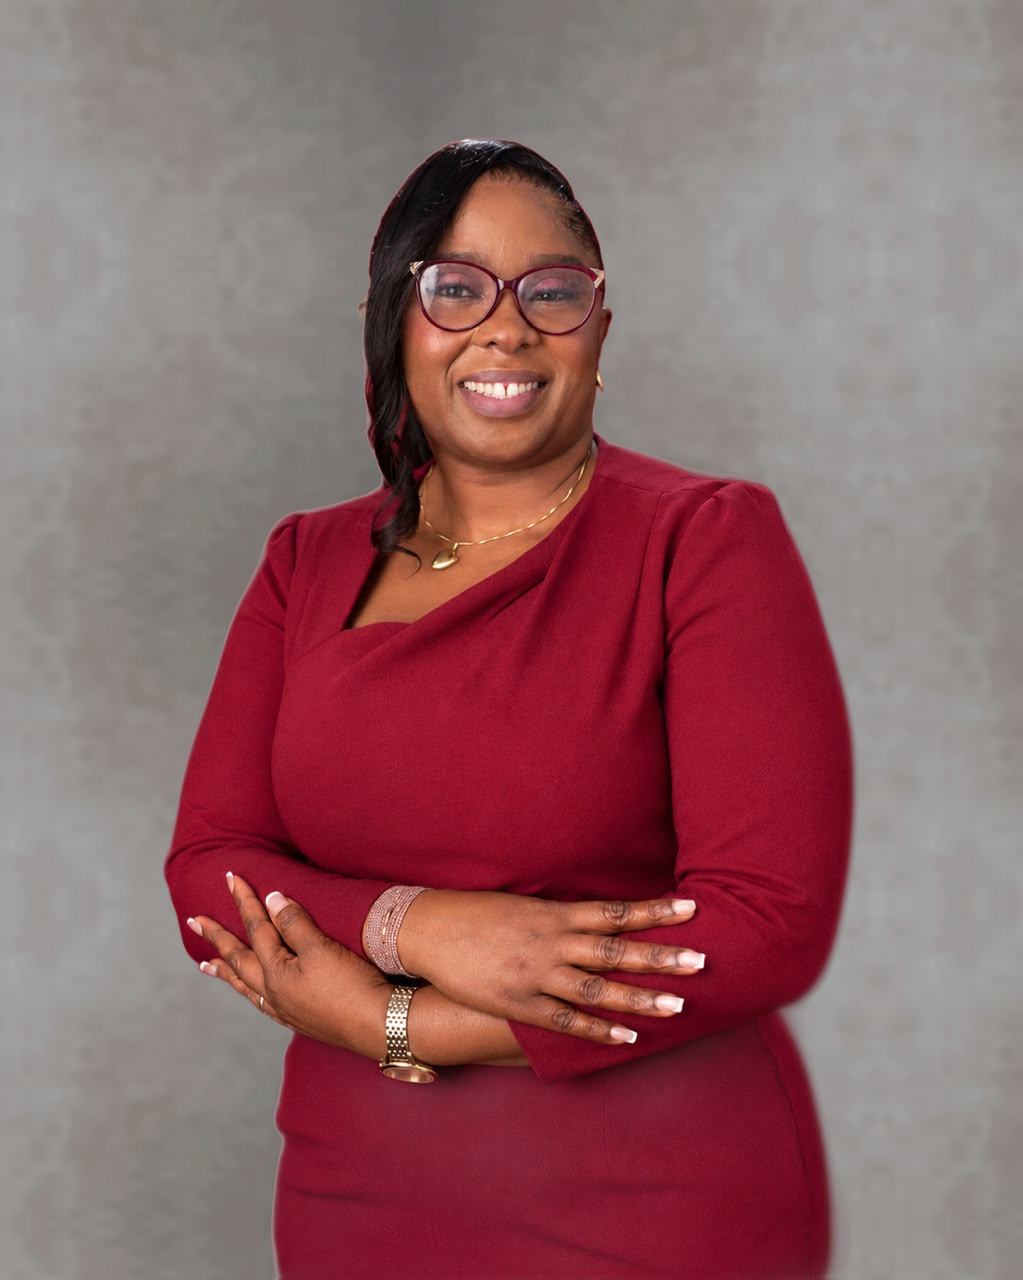
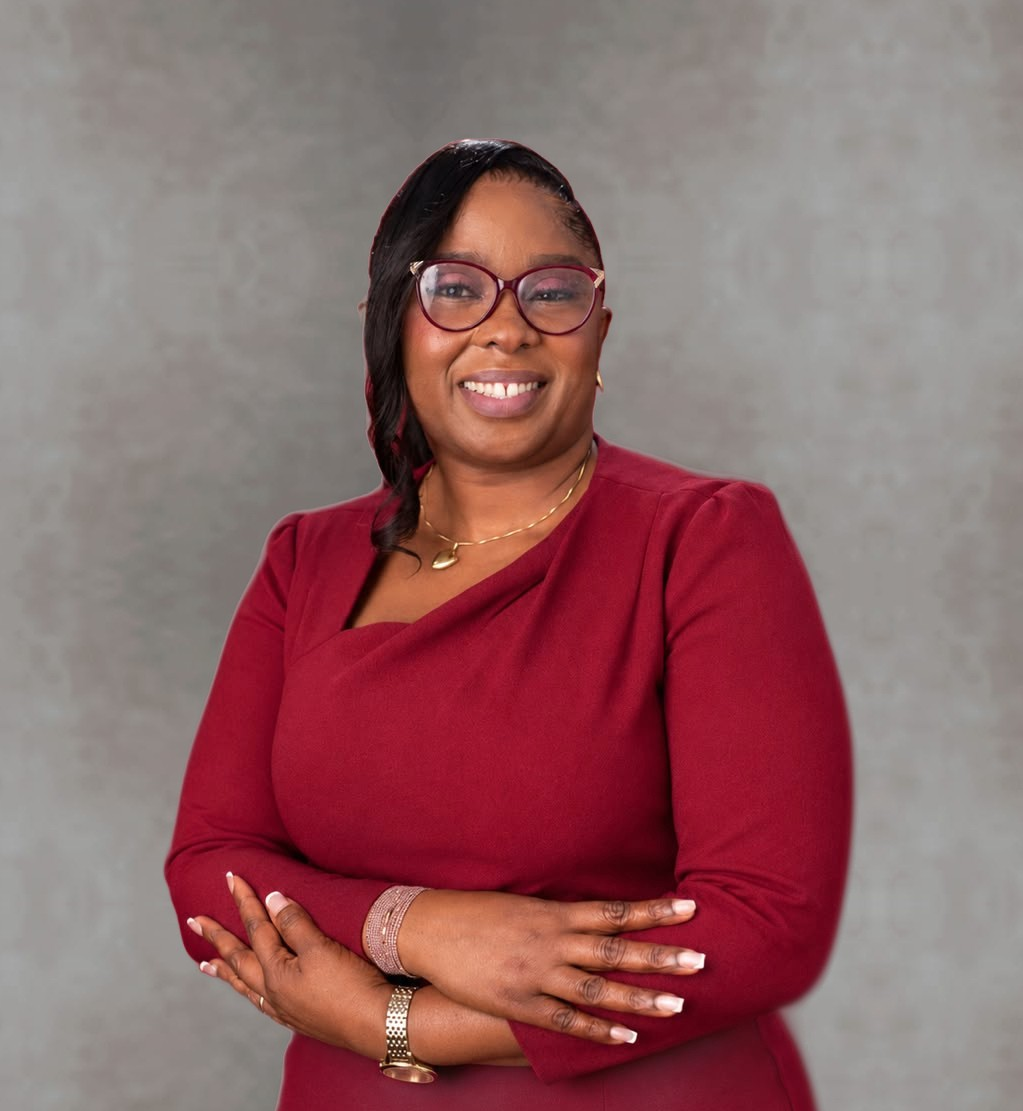
Update About page team layout

Changed region(s): [[0.1515, 0.0918, 0.8485, 1.0], [0.0909, 0.8263, 0.1212, 0.8569]]

diff --git a/about.html b/about.html
@@ -30,7 +30,7 @@
     <link rel="preconnect" href="https://fonts.googleapis.com" />
     <link rel="preconnect" href="https://fonts.gstatic.com" crossorigin />
     <link href="https://fonts.googleapis.com/css2?family=Archivo:wght@400;500;600;700&family=Inter+Tight:wght@400;500;600;700&display=swap" rel="stylesheet" />
-    <link rel="stylesheet" href="styles.css?v=project-gallery-footer-20261026" />
+    <link rel="stylesheet" href="styles.css?v=project-team-layout-20261027" />
     <script src="script.js?v=palm-harbour-images-20261027" defer></script>
   </head>
   <body>
@@ -237,7 +237,7 @@
             <div class="people-group-heading"><span>02</span><h3 id="delivery-team-title">Project &amp; Delivery Team</h3></div>
             <p class="people-group-intro">The specialists driving design, construction and client delivery across Dav-Ric Homes.</p>
             <div class="people-grid people-grid--delivery">
-              <article class="people-card" data-reveal><div class="people-card-media"><img class="people-card-photo" src="assets/olajubutu-gbenga.jpg" alt="Portrait of Arc. Olajubutu Gbenga" loading="lazy" decoding="async" /></div><div class="people-card-body"><h4>Arc. Olajubutu Gbenga</h4><p class="people-card-role">Project Executive</p></div></article>
+              <article class="people-card" data-reveal><div class="people-card-media"><img class="people-card-photo" src="assets/olajubutu-gbenga.jpg" alt="Portrait of Arc. Olajubutu Gbenga" loading="lazy" decoding="async" /></div><div class="people-card-body"><h4>Arc. Olajubutu Gbenga</h4><p class="people-card-role">Project Director</p></div></article>
               <article class="people-card" data-reveal><div class="people-card-media"><img class="people-card-photo" src="assets/esther-olasemeji.jpg" alt="Portrait of QS Esther Olasemeji" loading="lazy" decoding="async" /></div><div class="people-card-body"><h4>QS Esther Oladimeji</h4><p class="people-card-role">Head, Quantity Surveying &amp; Cost Management</p></div></article>
               <article class="people-card" data-reveal><div class="people-card-media" aria-hidden="true"><span class="people-card-initials">KO</span></div><div class="people-card-body"><h4>Engr. Kolade Onanlopo</h4><p class="people-card-role">Project Manager</p></div></article>
               <article class="people-card" data-reveal><div class="people-card-media"><img class="people-card-photo" src="assets/akinwale-desmond.jpg" alt="Portrait of Akinwale Desmond" loading="lazy" decoding="async" /></div><div class="people-card-body"><h4>Akinwale Desmond</h4><p class="people-card-role">Property Consultant<br />(Special Advisor on Special Project)</p></div></article>

diff --git a/styles.css b/styles.css
@@ -920,7 +920,8 @@ h2 span {
 
 .people-grid { display: grid; gap: 12px; }
 .people-grid--leadership { grid-template-columns: repeat(4, minmax(0, 1fr)); }
-.people-grid--delivery { grid-template-columns: repeat(6, minmax(0, 1fr)); }
+.people-grid--delivery { display: flex; flex-wrap: wrap; justify-content: center; }
+.people-grid--delivery > .people-card { flex: 0 1 calc((100% - 24px) / 3); }
 .people-card { display: flex; min-width: 0; flex-direction: column; overflow: hidden; border: 1px solid var(--line-color); background: var(--paper); }
 .people-card-media {
   position: relative;
@@ -2251,8 +2252,6 @@ html:not(.js) [data-reveal] {
   .people-heading h2 { font-size: clamp(47.41px, 12.13vw, 69.46px); }
   .people-intro { margin: 0; }
   .people-grid--leadership { grid-template-columns: repeat(2, minmax(0, 1fr)); }
-  .people-grid--delivery { grid-template-columns: repeat(3, minmax(0, 1fr)); }
-
   .approach-heading h2 {
     font-size: clamp(47.41px, 12.13vw, 69.46px);
   }
@@ -4433,7 +4432,6 @@ html[data-theme="dark"] .inquiry-form select {
   .people-heading h2 { font-size: clamp(47.41px, 8.27vw, 69.46px); }
   .people-intro { margin: 0; }
   .people-grid--leadership { grid-template-columns: repeat(2, minmax(0, 1fr)); }
-  .people-grid--delivery { grid-template-columns: repeat(3, minmax(0, 1fr)); }
 }
 
 @media (max-width: 760px) {
@@ -4453,6 +4451,8 @@ html[data-theme="dark"] .inquiry-form select {
   .people-section { padding-block: 86px; }
   .people-grid--leadership,
   .people-grid--delivery { grid-template-columns: minmax(0, 1fr); }
+  .people-grid--delivery { display: grid; }
+  .people-grid--delivery > .people-card { grid-column: 1; }
   .people-group--delivery { margin-top: 52px; padding-top: 40px; }
   .people-group-heading { gap: 11px; }
   .people-card-body { padding: 15px 13px 18px; }
